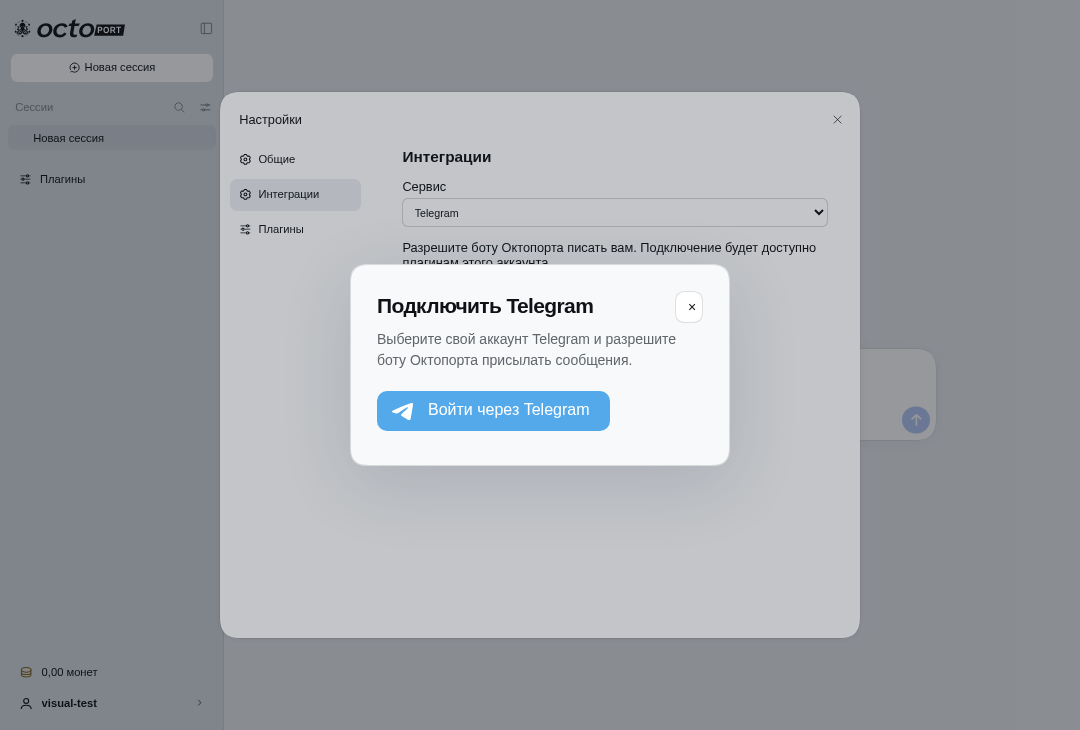
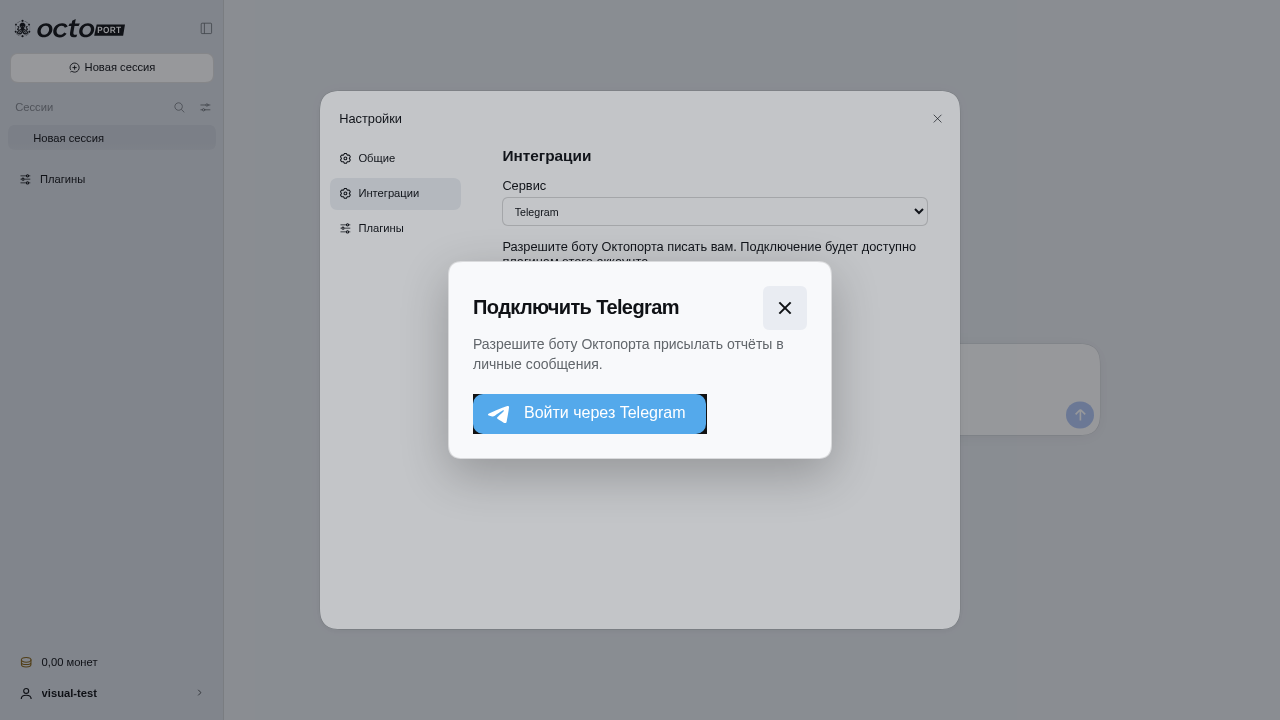
Fix Telegram dialog in dark mode and across viewport sizes

diff --git a/products/harness-platform/native/web/connections.js b/products/harness-platform/native/web/connections.js
@@ -13,12 +13,13 @@ window.__ModuleLoader__.load({
           h('ol',null,steps.map(step=>h('li',{key:step},step))));
       }
       function TelegramDialog({close,linked}) {
-        const dialog=React.useRef(null),frame=React.useRef(null);
+        const dialog=React.useRef(null),frame=React.useRef(null),heading=React.useRef(null);
         const [attempt,retry]=React.useReducer(n=>n+1,0),[request,setRequest]=React.useState(null);
         const [error,setError]=React.useState(''),[phase,setPhase]=React.useState('loading');
         React.useLayoutEffect(()=>{
           const element=dialog.current;
           element.showModal();
+          heading.current.focus({preventScroll:true});
           function escape(e){
             if(e.key==='Escape'&&element.open){
               e.preventDefault();e.stopImmediatePropagation();close();
@@ -88,16 +89,18 @@ window.__ModuleLoader__.load({
         }
         return h('dialog',{ref:dialog,className:'account-dialog telegram-dialog','aria-labelledby':'telegram-dialog-title',
             onCancel:e=>{e.preventDefault();close();}},
-          h('button',{type:'button',className:'account-close','aria-label':'Закрыть',onClick:close},'×'),
-          h('h2',{id:'telegram-dialog-title'},'Подключить Telegram'),
-          h('p',null,'Выберите свой аккаунт Telegram и разрешите боту Октопорта присылать сообщения.'),
-          error?h(React.Fragment,null,h('p',{role:'alert'},error),
-            h('button',{type:'button',onClick:retry},'Попробовать снова')):
-            h(React.Fragment,null,
-              phase!=='ready'&&h('p',{role:'status'},phase==='checking'?'Проверяем подключение…':'Загружаем Telegram…'),
-              request?.widget&&h('iframe',{ref:frame,title:'Вход через Telegram',className:'telegram-widget-frame',
-                hidden:phase!=='ready',src:request.url,onLoad:loaded,referrerPolicy:'no-referrer'}),
-              request&&!request.widget&&h('a',{href:request.url,target:'_blank',rel:'noopener noreferrer'},'Войти через Telegram')));
+          h('header',{className:'telegram-dialog-header'},
+            h('h2',{id:'telegram-dialog-title',ref:heading,tabIndex:-1},'Подключить Telegram'),
+            h('button',{type:'button',className:'telegram-dialog-close','aria-label':'Закрыть окно Telegram',onClick:close})),
+          h('p',{className:'telegram-dialog-description'},'Разрешите боту Октопорта присылать отчёты в личные сообщения.'),
+          h('div',{className:'telegram-dialog-action'},
+            error?h(React.Fragment,null,h('p',{role:'alert'},error),
+              h('button',{type:'button',onClick:retry},'Попробовать снова')):
+              h(React.Fragment,null,
+                phase!=='ready'&&h('p',{role:'status'},phase==='checking'?'Проверяем подключение…':'Загружаем Telegram…'),
+                request?.widget&&h('iframe',{ref:frame,title:'Вход через Telegram',className:'telegram-widget-frame',
+                  hidden:phase!=='ready',src:request.url,onLoad:loaded,referrerPolicy:'no-referrer'}),
+                request&&!request.widget&&h('a',{href:request.url,target:'_blank',rel:'noopener noreferrer'},'Войти через Telegram'))));
       }
       function Connections({initial={},after,chat}) {
         const [list,setList]=React.useState(null),[provider,setProvider]=React.useState(initial.provider||'');

diff --git a/products/harness-platform/native/web/account.css b/products/harness-platform/native/web/account.css
@@ -247,12 +247,74 @@ body[data-ds-dark-theme] .octo-installed-plugins li[data-active="true"] { --plug
 
 .service-settings label.service-chat-grant { display:flex; align-items:center; gap:.5rem; margin:0; }
 
-.telegram-dialog { zoom:calc(1 / var(--octo-ui-scale,1)); width:min(380px,calc(100vw - 32px)); padding:26px; }
-.telegram-dialog h2 { margin:0 30px 8px 0; font-size:21px; }
-.telegram-dialog p { margin:0 0 20px; color:var(--muted); line-height:1.5; }
-.telegram-dialog [role=status],.telegram-dialog [role=alert] { margin:10px 0; }
-.telegram-widget-frame { display:block; border:0; width:100%; height:48px; background:transparent; }
-.telegram-widget-frame[hidden] { display:none; }
+.telegram-dialog {
+  zoom:calc(1 / var(--octo-ui-scale,1));
+  width: min(384px, calc(100% - 24px));
+  max-width: none;
+  max-height: calc(100dvh - 24px);
+  padding: clamp(12px, 5vw, 24px);
+  border-radius: 16px;
+  box-shadow: 0 16px 48px rgb(0 0 0 / 24%);
+}
+.telegram-dialog-header {
+  display: grid;
+  grid-template-columns: minmax(0, 1fr) auto;
+  align-items: center;
+  gap: 8px;
+  margin-block-end: 4px;
+}
+.telegram-dialog .telegram-dialog-header h2 {
+  margin: 0;
+  font-size: 20px;
+  line-height: 1.25;
+  overflow-wrap: anywhere;
+  outline: none;
+}
+.telegram-dialog button.telegram-dialog-close {
+  display: grid;
+  place-items: center;
+  box-sizing: border-box;
+  width: 44px;
+  height: 44px;
+  min-height: 44px;
+  padding: 0;
+  border: 0;
+  border-radius: 8px;
+  background: transparent;
+  color: var(--muted);
+}
+.telegram-dialog button.telegram-dialog-close::before,
+.telegram-dialog button.telegram-dialog-close::after {
+  content: "";
+  grid-area: 1 / 1;
+  width: 16px;
+  height: 0;
+  border-top: 2px solid currentColor;
+  transform: rotate(45deg);
+}
+.telegram-dialog button.telegram-dialog-close::after { transform: rotate(-45deg); }
+.telegram-dialog button.telegram-dialog-close:focus-visible {
+  outline: 2px solid var(--action);
+  outline-offset: -3px;
+}
+.telegram-dialog-description { margin: 0 0 20px; color: var(--muted); }
+.telegram-dialog-action {
+  display: grid;
+  justify-items: start;
+  align-content: center;
+  gap: 8px;
+  min-height: 40px;
+}
+.telegram-dialog-action p { margin: 0; }
+.telegram-widget-frame {
+  display: block;
+  color-scheme: only light;
+  border: 0;
+  width: min(238px, 100%);
+  height: 40px;
+  background: transparent;
+}
+.telegram-widget-frame[hidden] { display: none; }
 
 .telegram-return-page { margin:0; min-height:100dvh; display:grid; place-items:center;
   background:#f4f6f9; color:#222735; font:15px/1.5 system-ui,sans-serif; }

diff --git a/products/harness-platform/tests/browser/test_telegram_browser.py b/products/harness-platform/tests/browser/test_telegram_browser.py
@@ -29,6 +29,8 @@ class TelegramBrowser(ProductBrowser):
             url.searchParams.set('return_to', next.href);
             const frame = document.createElement('iframe');
             frame.src = url.href;
+            frame.width = 238;
+            frame.height = 40;
             widget.after(frame);
             window.addEventListener('message', e => {
                 if (e.source !== frame.contentWindow || e.origin !== 'https://oauth.telegram.org') return;
@@ -80,6 +82,24 @@ class TelegramBrowser(ProductBrowser):
             await expect(modal).to_have_count(0)
             await expect(page).to_have_url(original)
             blocked=False
+            original_viewport = page.viewport_size
+            await page.emulate_media(color_scheme="dark")
+            await page.set_viewport_size({"width":240,"height":560})
+            await page.get_by_role("button",name="Подключить Telegram",exact=True).click()
+            close = modal.get_by_role("button",name="Закрыть окно Telegram",exact=True)
+            box = await close.bounding_box()
+            self.assertGreaterEqual(box["width"],43.5)
+            self.assertGreaterEqual(box["height"],43.5)
+            widget = modal.locator('iframe[title="Вход через Telegram"]')
+            await expect(widget).to_be_visible()
+            await expect(widget).to_have_css("color-scheme","light only")
+            embedded = widget.content_frame.locator("iframe")
+            fits = await embedded.evaluate("(el) => el.getBoundingClientRect().right <= innerWidth")
+            self.assertTrue(fits)
+            await close.click()
+            await expect(modal).to_have_count(0)
+            await expect(page.get_by_role("combobox",name="Сервис")).to_be_visible()
+            await page.set_viewport_size(original_viewport)
             await page.evaluate("window.octoTelegramChatMarker = true")
             await page.get_by_role("button",name="Подключить Telegram",exact=True).click()
             wrapper = page.frame_locator('iframe[title="Вход через Telegram"]')

diff --git a/products/harness-platform/platform_core/telegram_integration.py b/products/harness-platform/platform_core/telegram_integration.py
@@ -179,7 +179,13 @@ data-size="large" data-radius="10" data-lang="ru" data-request-access="write" da
             # Older, already-open clients can still finish their top-level handoff.
             content = button if embedded else ('<main><h1>Подключить Telegram</h1>' + button +
                 '<p><a href="/app/">Вернуться в Октопорт</a></p></main>')
-            style = ("html,body{margin:0;background:transparent}body{display:grid;justify-content:start}iframe{border:0}"
+            # The widget is light and transparent. Using the same color scheme in both frames
+            # avoids the opaque canvas browsers insert when their color schemes differ.
+            style = (":root{color-scheme:only light}html,body{margin:0;background:transparent;overflow:hidden}"
+                     "iframe{display:block;border:0;color-scheme:only light;transform-origin:top left}"
+                     "@media(max-width:237px){iframe{transform:scale(.85)}}"
+                     "@media(max-width:202px){iframe{transform:scale(.78)}}"
+                     "@media(max-width:185px){iframe{transform:scale(.72)}}"
                      if embedded else
                      "body{margin:0;min-height:100dvh;display:grid;place-items:center;background:#f4f6f9;"
                      "color:#222735;font:15px system-ui}main{padding:28px;border-radius:16px;background:white;"
